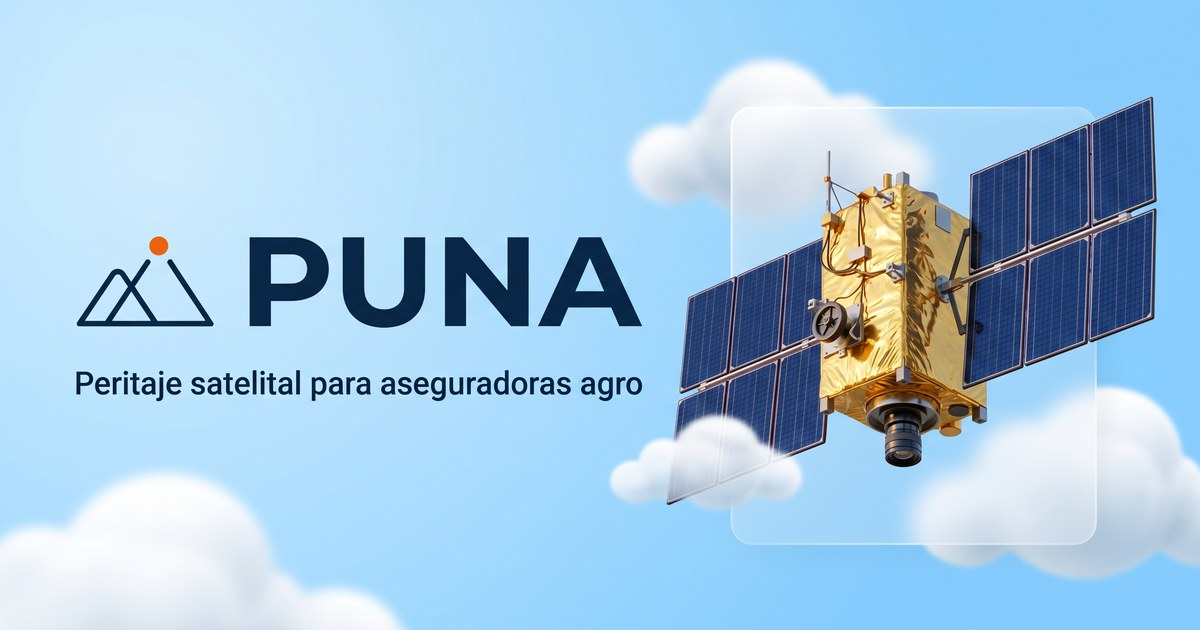
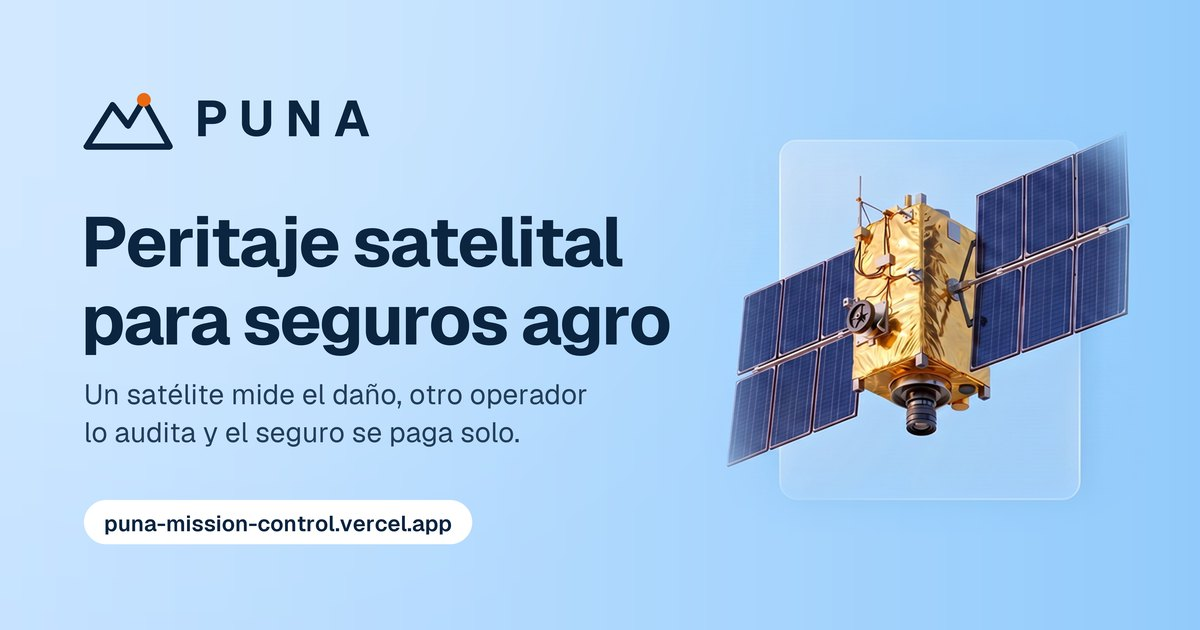
feat(web): OG con la marca original
OG y Twitter 1200x630 armadas de forma determinista (scripts/brand_images.py):
mark original del header (puna-mark.svg) y wordmark en Geist, titulo de 70 px,
claim corto, URL y todo dentro de la zona segura; fondo de cielo y satelite de
nano banana 2 sin texto quemado. Favicon, apple-icon, iconos del manifest y
logo regenerados con la misma marca.

diff --git a/scripts/brand_images.py b/scripts/brand_images.py
@@ -1,0 +1,147 @@
+"""Genera la imagen OG/Twitter y los íconos de la web con la marca original de PUNA.
+
+La marca es el SVG del header (web/public/brand/puna-mark.svg): path M1 21 L11 5 L17 13 L23 3 L33 21 Z,
+trazo #0b2440 y punto #ea6a12. El fondo de la OG sale de un render de nano banana 2 (web/assets/og-source.jpg);
+todo lo demás (logo, wordmark, textos) se dibuja acá, de forma determinista, con Geist (la tipografía de la web).
+
+    .venv/bin/python scripts/brand_images.py
+"""
+from pathlib import Path
+
+from PIL import Image, ImageDraw, ImageFilter, ImageFont
+
+ROOT = Path(__file__).resolve().parents[1]
+WEB = ROOT / "web"
+FONTS = WEB / "node_modules/geist/dist/fonts/geist-sans"
+INK, INK2, ORANGE = (11, 36, 64), (35, 62, 92), (234, 106, 18)
+MARK = [(1, 21), (11, 5), (17, 13), (23, 3), (33, 21)]  # viewBox 0 0 34 22
+SS = 4  # supersampling
+
+
+def font(weight: str, size: int) -> ImageFont.FreeTypeFont:
+    return ImageFont.truetype(str(FONTS / f"Geist-{weight}.ttf"), size * SS)
+
+
+def draw_mark(d: ImageDraw.ImageDraw, x: float, y: float, scale: float, stroke: float = 2.4, dot: float = 2.6, color=INK):
+    """Dibuja el mark en coordenadas ya supersampleadas. scale = px por unidad del viewBox."""
+    pts = [((x + px * scale) * SS, (y + py * scale) * SS) for px, py in MARK]
+    w = round(stroke * scale * SS)
+    d.line(pts + [pts[0], pts[1]], fill=color, width=w, joint="curve")
+    cx, cy, r = (x + 23 * scale) * SS, (y + 3 * scale) * SS, dot * scale * SS
+    d.ellipse((cx - r, cy - r, cx + r, cy + r), fill=ORANGE)
+
+
+def text(d, xy, s, f, fill, tracking=0.0):
+    """Texto con tracking (em) en coordenadas sin supersamplear; devuelve el ancho."""
+    x, y = xy[0] * SS, xy[1] * SS
+    for ch in s:
+        d.text((x, y), ch, font=f, fill=fill)
+        x += f.getlength(ch) + tracking * f.size
+    return x / SS - xy[0]
+
+
+def measure(s, f, tracking=0.0):
+    return sum(f.getlength(c) + tracking * f.size for c in s) / SS
+
+
+def sky(w, h):
+    """Degradé del cielo del render: claro arriba a la izquierda, más saturado a la derecha."""
+    left, right = (197, 226, 255), (146, 203, 251)
+    g = Image.new("RGB", (w, 1))
+    for x in range(w):
+        t = (x / (w - 1)) ** 1.15
+        g.putpixel((x, 0), tuple(round(a + (b - a) * t) for a, b in zip(left, right)))
+    g = g.resize((w, h))
+    glow = Image.new("L", (w, h), 0)
+    ImageDraw.Draw(glow).ellipse((-w * 0.25, -h * 0.6, w * 0.55, h * 0.7), fill=90)
+    return Image.composite(Image.new("RGB", (w, h), (232, 244, 255)), g, glow.filter(ImageFilter.GaussianBlur(120)))
+
+
+def feather(size, inset):
+    m = Image.new("L", size, 0)
+    ImageDraw.Draw(m).rounded_rectangle((inset, inset, size[0] - inset, size[1] - inset), radius=inset * 2, fill=255)
+    return m.filter(ImageFilter.GaussianBlur(inset * 0.6))
+
+
+def og(path_out: Path):
+    W, H = 1200, 630
+    src = Image.open(WEB / "assets/og-source.jpg").convert("RGB")
+    base = sky(W, H)
+
+    # satélite + card de vidrio, a la derecha y dentro de la zona segura (60 px de margen lateral, 35 vertical)
+    sat = src.crop((1440, 190, 2752, 1390))
+    sh = 430
+    sat = sat.resize((round(sat.width * sh / sat.height), sh), Image.LANCZOS)
+    sx, sy = W - 60 - sat.width + 24, (H - sh) // 2 + 4
+    base.paste(sat, (sx, sy), feather(sat.size, 34))
+
+
+    hi = base.resize((W * SS, H * SS), Image.LANCZOS)
+    d = ImageDraw.Draw(hi)
+    X = 84
+    # marca: mark + wordmark, como en el header
+    draw_mark(d, X, 92, 2.6)
+    text(d, (X + 34 * 2.6 + 22, 86), "PUNA", font("Bold", 50), INK, tracking=0.22)
+    # título (≥ 64 px), claim corto y URL
+    ft = font("Bold", 70)
+    for i, line in enumerate(["Peritaje satelital", "para seguros agro"]):
+        text(d, (X - 3, 196 + i * 78), line, ft, INK, tracking=-0.035)
+    text(d, (X, 376), "Un satélite mide el daño, otro operador", font("Regular", 28), INK2)
+    text(d, (X, 414), "lo audita y el seguro se paga solo.", font("Regular", 28), INK2)
+    pill_f = font("SemiBold", 22)
+    url = "puna-mission-control.vercel.app"
+    pw = measure(url, pill_f) + 40
+    d.rounded_rectangle((X * SS, 500 * SS, (X + pw) * SS, 544 * SS), radius=22 * SS, fill=(255, 255, 255, 235))
+    text(d, (X + 20, 509), url, pill_f, INK)
+
+    out = hi.resize((W, H), Image.LANCZOS)
+    out.save(path_out, quality=86, optimize=True, progressive=True)
+    return out
+
+
+def tile(size: int, rounded: bool, mark_w: float, stroke: float) -> Image.Image:
+    """Ícono: cuadrado celeste con el mark centrado."""
+    S = size * SS
+    g = Image.new("RGB", (1, 2))
+    g.putpixel((0, 0), (226, 242, 255)); g.putpixel((0, 1), (170, 214, 250))
+    im = g.resize((S, S), Image.BICUBIC).convert("RGBA")
+    d = ImageDraw.Draw(im)
+    scale = mark_w * size / 34
+    x = (size - 34 * scale) / 2
+    y = (size - 22 * scale) / 2 + 0.03 * size
+    draw_mark(d, x, y, scale, stroke=stroke, dot=max(2.6, stroke * 1.25))
+    if rounded:
+        m = Image.new("L", (S, S), 0)
+        ImageDraw.Draw(m).rounded_rectangle((0, 0, S - 1, S - 1), radius=round(S * 0.22), fill=255)
+        im.putalpha(m)
+    return im.resize((size, size), Image.LANCZOS)
+
+
+def logo(path_out: Path):
+    """Logo horizontal (mark + PUNA) con fondo transparente."""
+    H = 160
+    f = font("Bold", 96)
+    tw = measure("PUNA", f, 0.22)
+    W = int(34 * 4.4 + 36 + tw + 20)
+    im = Image.new("RGBA", (W * SS, H * SS), (0, 0, 0, 0))
+    d = ImageDraw.Draw(im)
+    draw_mark(d, 6, 30, 4.4)
+    text(d, (34 * 4.4 + 40, 18), "PUNA", f, INK, tracking=0.22)
+    im = im.resize((W, H), Image.LANCZOS)
+    im.crop(im.getbbox()).save(path_out, optimize=True)
+
+
+if __name__ == "__main__":
+    app, pub = WEB / "app", WEB / "public"
+    img = og(app / "opengraph-image.jpg")
+    img.save(app / "twitter-image.jpg", quality=86, optimize=True, progressive=True)
+    tile(512, True, 0.70, 2.6).save(app / "icon.png", optimize=True)
+    tile(180, False, 0.66, 2.6).save(app / "apple-icon.png", optimize=True)
+    # favicon: trazo más grueso para que se lea a 16 px
+    tile(256, True, 0.78, 3.4).save(app / "favicon.ico", sizes=[(16, 16), (32, 32), (48, 48)])
+    tile(192, True, 0.70, 2.6).save(pub / "icons/icon-192.png", optimize=True)
+    tile(512, True, 0.70, 2.6).save(pub / "icons/icon-512.png", optimize=True)
+    tile(512, False, 0.56, 2.6).save(pub / "icons/icon-maskable-512.png", optimize=True)  # zona segura del 80 %
+    logo(pub / "brand/puna-logo.png")
+    for p in [app / "opengraph-image.jpg", app / "icon.png", app / "favicon.ico", pub / "brand/puna-logo.png"]:
+        print(p.relative_to(ROOT), p.stat().st_size // 1024, "KB")
